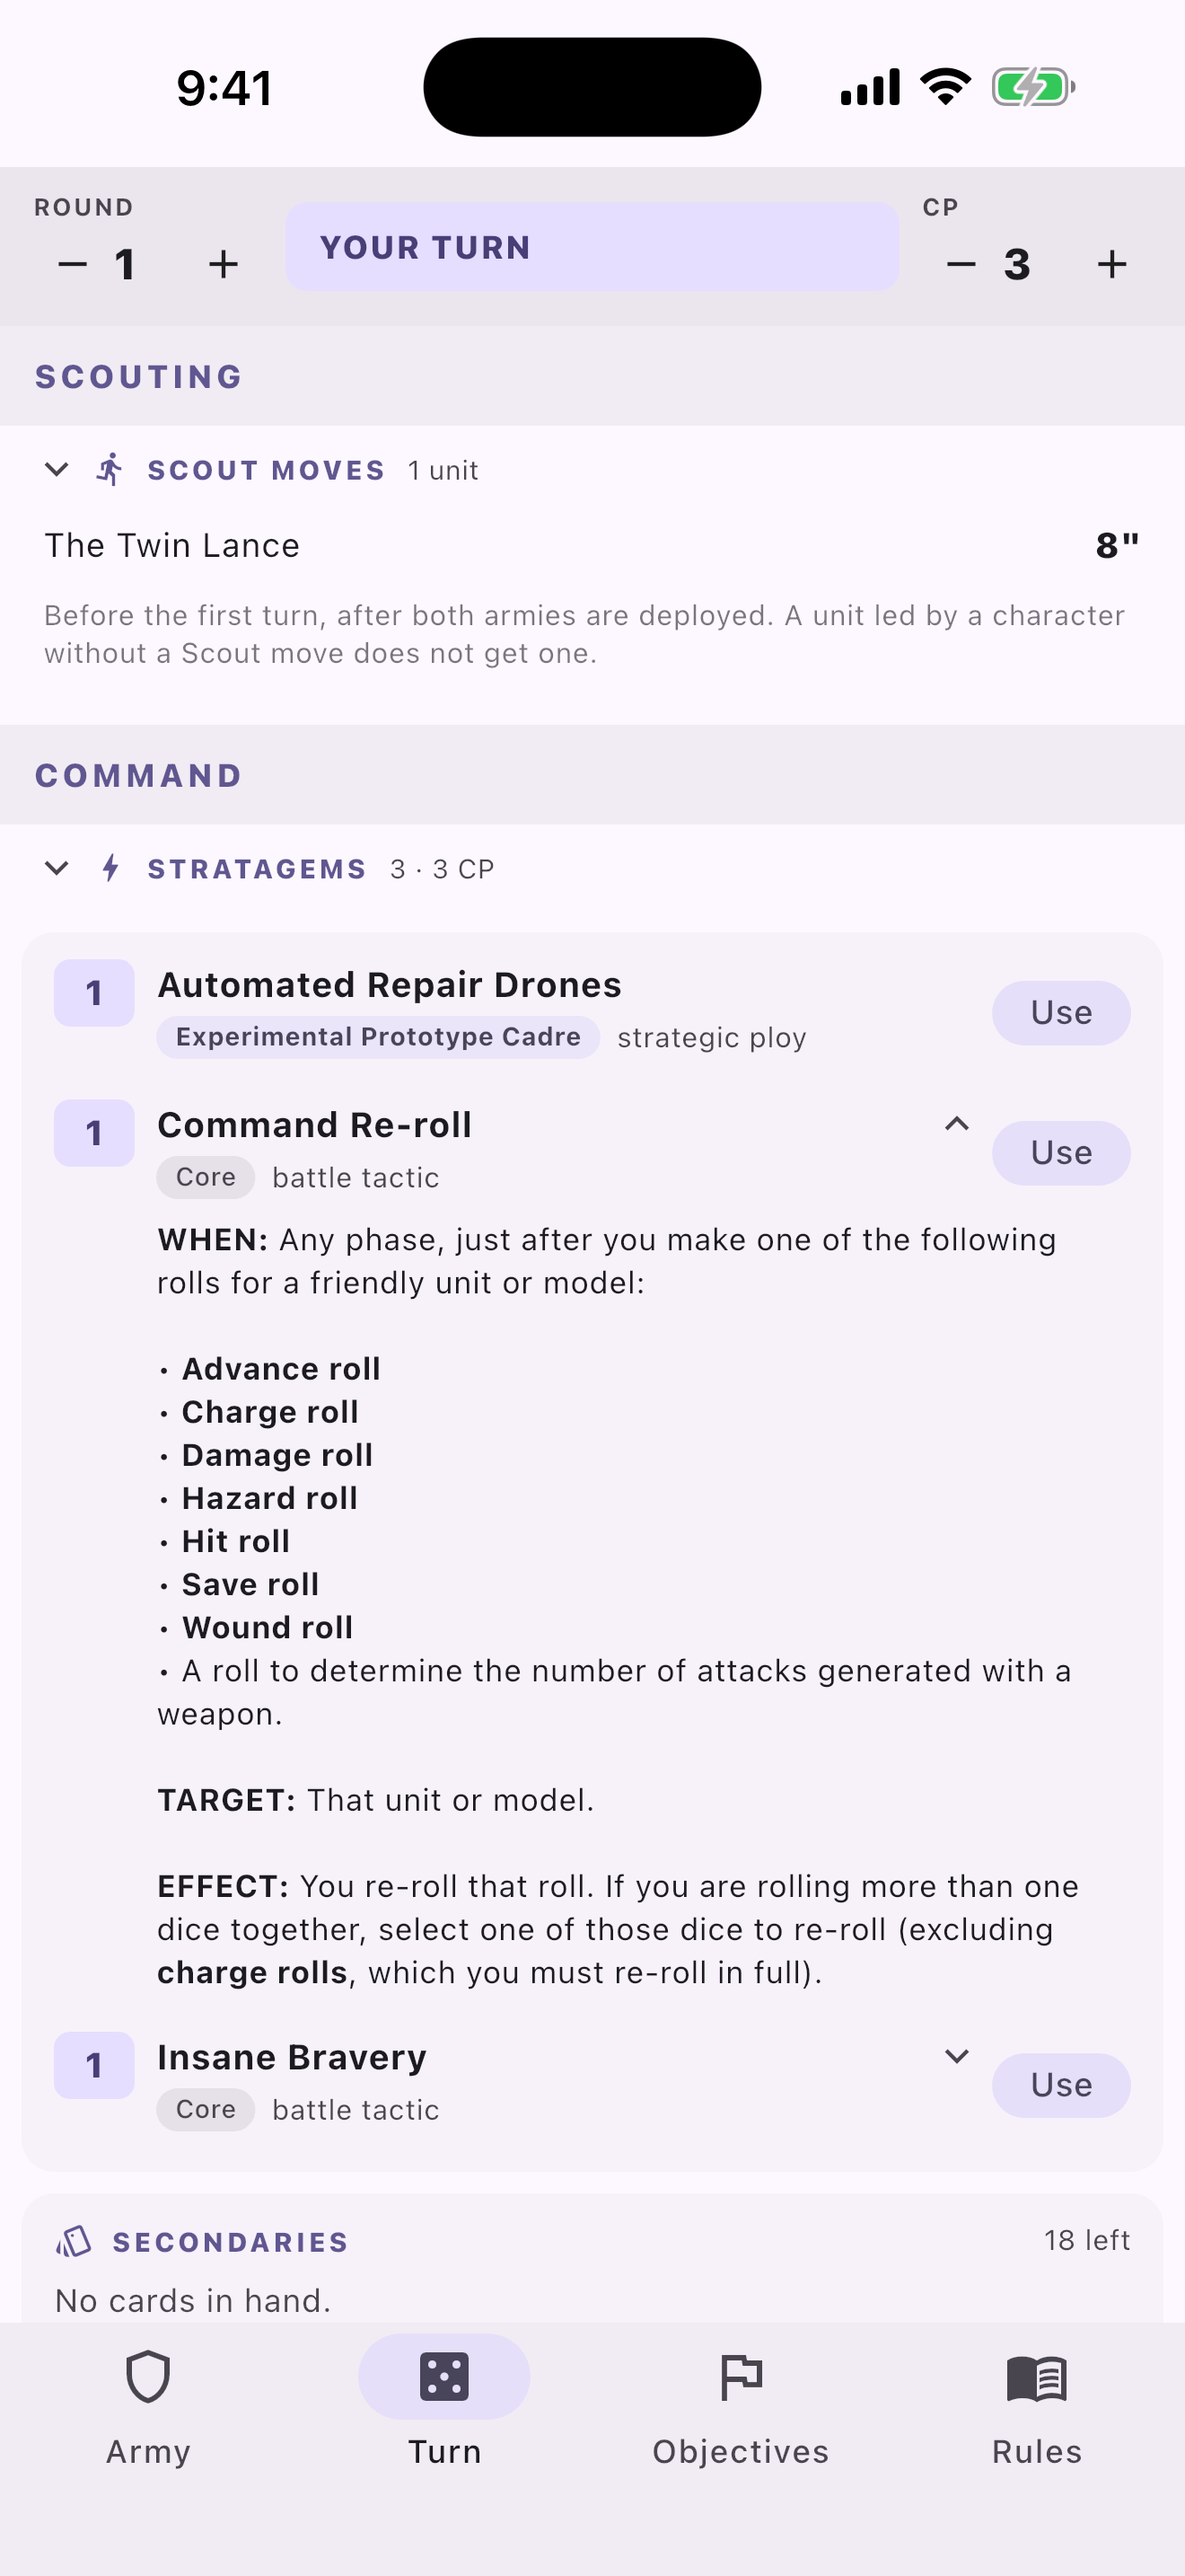
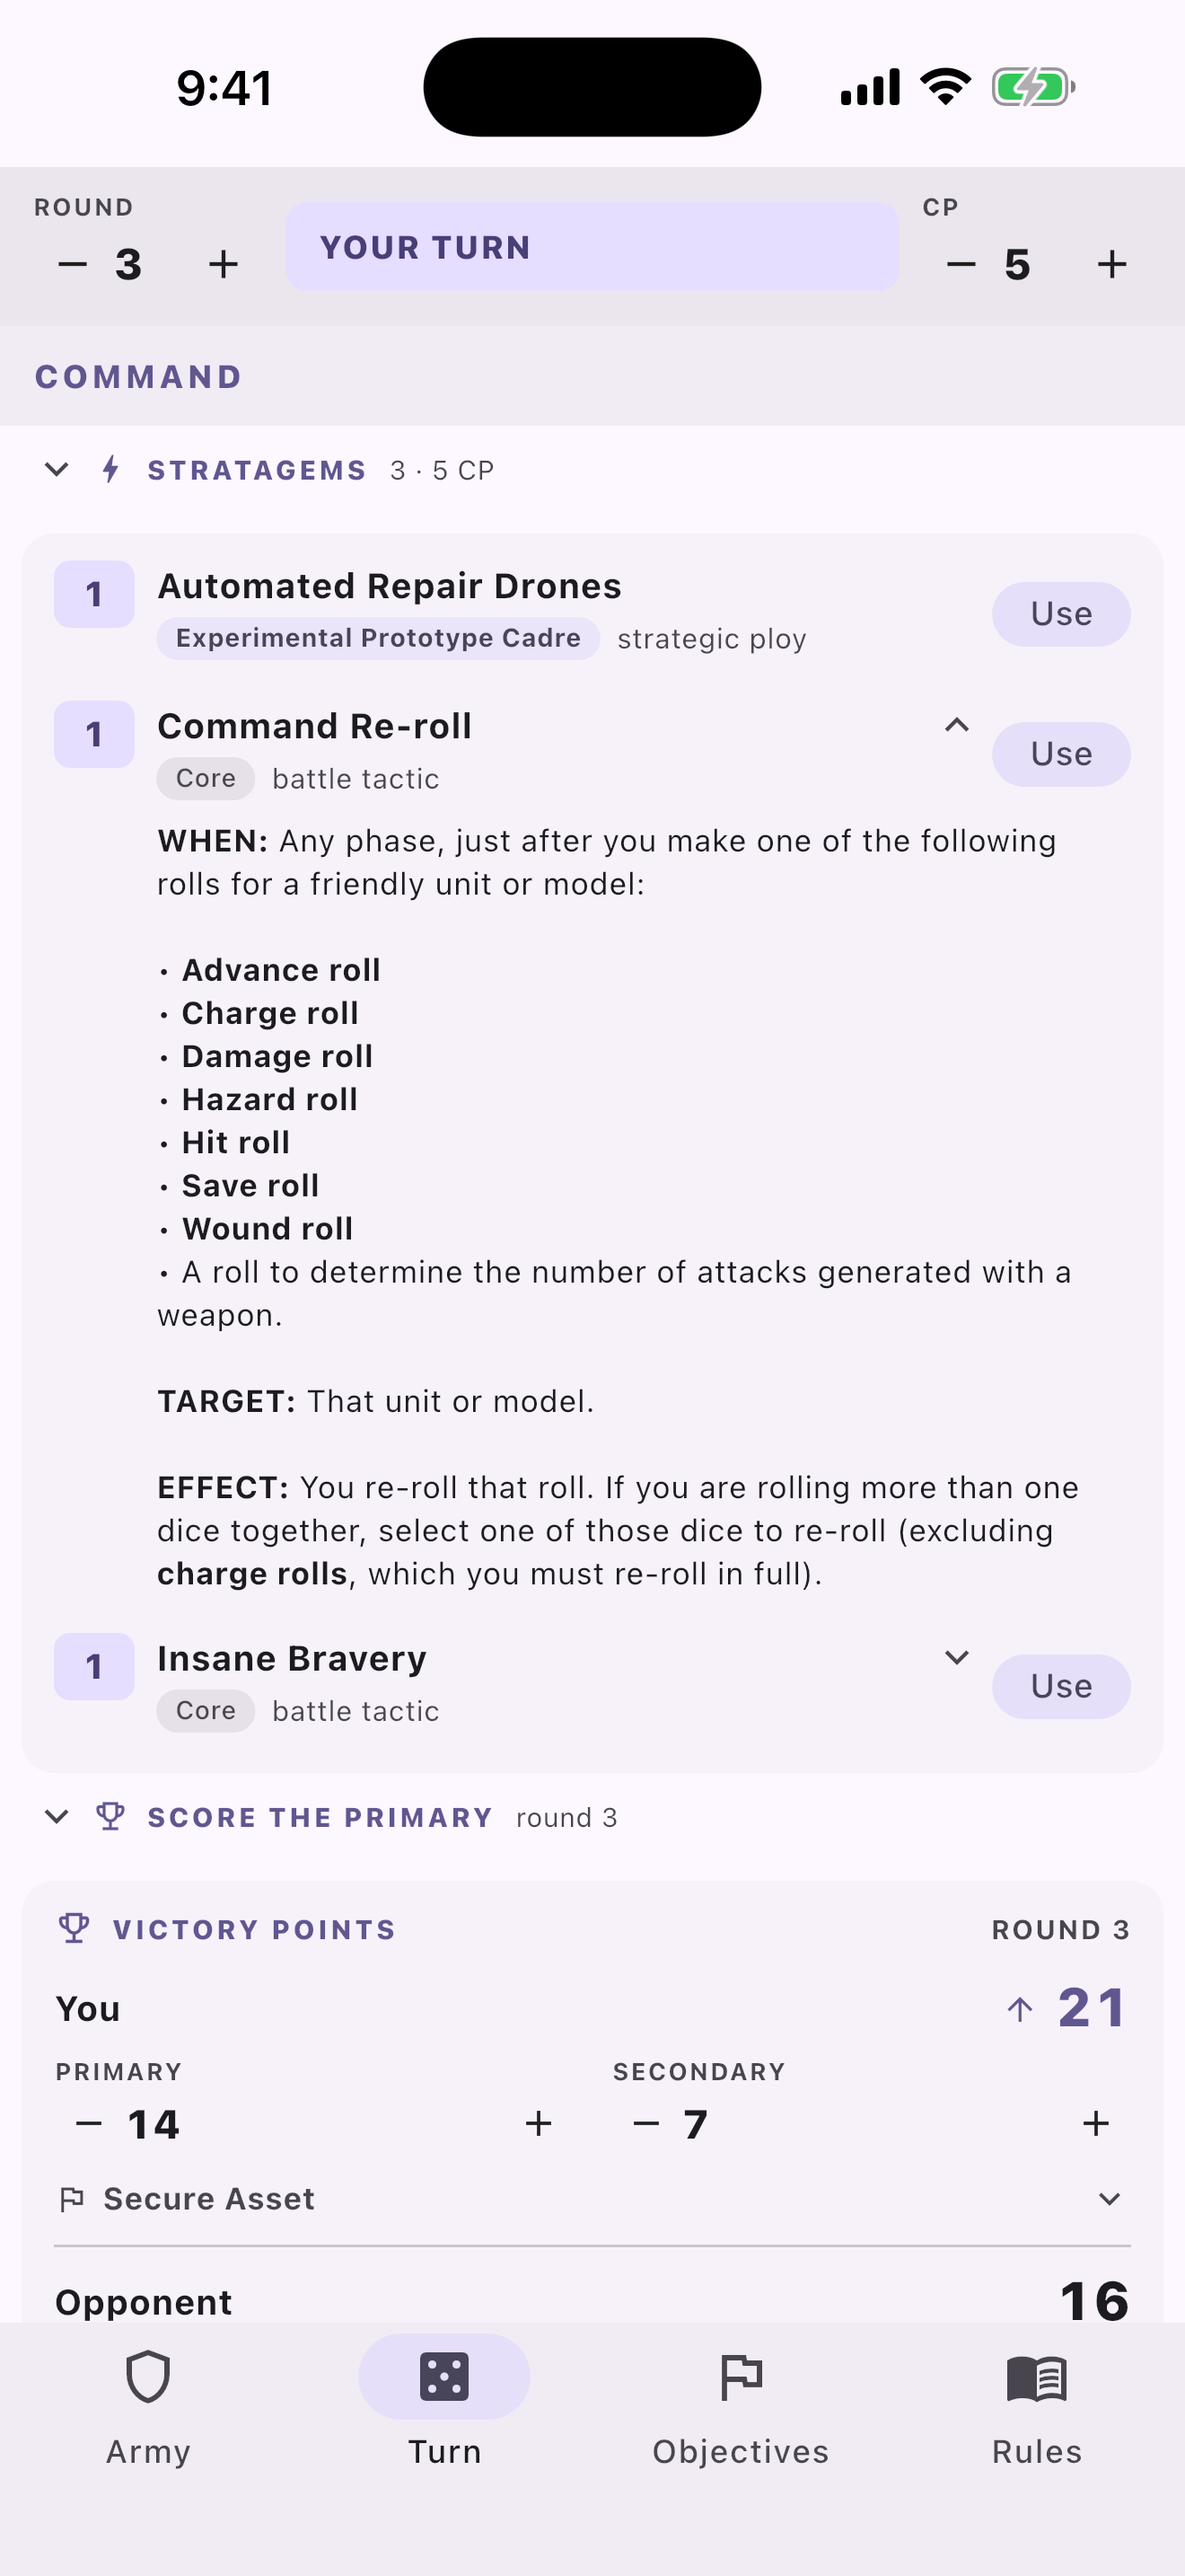
The iPad set, a scored battle, and a bug in the capture script
Eleven files now: seven at 1320x2868 and four at 2064x2752, both the
sizes App Store Connect requires while the app ships for iPhone and iPad.

05-turn and 06-objectives show a third-round game at 21-16 instead of the
0-0 they showed before. Tapping that in would have meant scrolling a very
long turn page to the scoring block for each of four values across two
rounds, so the scores went straight into rosters.battle_log_json as
`score` events in the app's own vocabulary. The app reads them exactly as
if they had been entered by hand, which is the point: the screenshot
shows real rendering of real state, not a mock.

The iPad set is army, turn, objectives and rules. The reference page is
the one that most rewards the width — the shared-rules matrix is nine
columns there against a scroll on the phone. Setup-wizard shots are
absent because a battle in progress has already passed that step.

capture.sh had a bug that this session's own files exposed: it wrote to
"<name>-6.9.png" and renamed afterwards by measured size, so shooting the
iPad set truncated three iPhone files before discovering they were a
different size. It now captures to a scratch name and moves into place
once the size is known, so a file can only ever replace one taken on the
same kind of device. The three lost files were re-shot.

diff --git a/store/screenshots/README.md b/store/screenshots/README.md
@@ -45,8 +45,8 @@ xcrun simctl status_bar <udid> override --time "9:41" --dataNetwork wifi \
   --batteryState charged --batteryLevel 100
 ```
 
-**The set, as shot.** Six, against a limit of ten, in the order that explains
-the app:
+**The set, as shot.** Seven for iPhone and four for iPad, against a limit of
+ten each, in the order that explains the app:
 
 | File | Screen | Why it is in the set |
 | --- | --- | --- |
@@ -54,8 +54,13 @@ the app:
 | `02-army` | the army page | 995 of 1000, six units, two detachments, the validation notes |
 | `03-mission` | setup, step 2 | the mission each detachment would give you, with its scoring and its action — the decision the app exists to inform |
 | `04-setup` | setup, the table | the deployment map drawn to scale, with its honest caption about bounding boxes |
-| `05-turn` | the turn page | round, CP, the stratagems usable now, one expanded to its full printed text |
-| `06-objectives` | objectives | both primaries, the score by round, and the disclaimer that these are community summaries |
+| `05-turn` | the turn page | round 3, five CP, the stratagems usable now, one expanded to its printed text, and the VP steppers |
+| `06-objectives` | objectives | 21–16 with the score by round, both primaries, and the disclaimer that these are community summaries |
+| `07-rules` | the reference page | search, the army-wide rules, and the shared-rules matrix — the screen that most rewards a tablet |
+
+The iPad set is `02`, `05`, `06` and `07`. `03` and `04` are not in it because
+they belong to the setup wizard, which a battle in progress has already passed;
+finishing the battle and setting up again would get them.
 
 No text overlays, no device frames, no marketing furniture — the same reason
 the rest of the copy is plain.
@@ -74,13 +79,19 @@ Navigate the simulator to the screen, run it, repeat. `DEVICE="iPad Pro
 13-inch (M5)"` switches devices for the iPad set. With no argument it prints
 the five shots and what each should show.
 
+## The scored battle
+
+`05-turn` and `06-objectives` show a game in its third round at 21–16, which no
+amount of tapping would have produced quickly. The scores were written straight
+into `rosters.battle_log_json` as `score` events in the app's own vocabulary —
+`{"type":"score","side":"me","kind":"primary","round":1,"vp":6}` — so the app
+reads them exactly as if they had been entered by hand. `battle_event.dart` is
+the schema.
+
 ## Status
 
-**All six captured**, every one at 1320 x 2868 with the 9:41 status bar and a
-real 995-point list.
+**All eleven files captured**, every one at its device's native size, from the
+imported 995-point list.
 
-Two things a second pass could improve, neither blocking: `06-objectives` shows
-0–0 because the battle had just started, and `01-armies` is thin enough that
-the set reads better without it. The iPad set is untouched — required only
-while the app ships for iPad, which `TARGETED_DEVICE_FAMILY = "1,2"` says it
-does.
+Remaining, neither blocking: `01-armies` is thin enough that the iPhone set
+reads better without it, and the iPad set has no setup-wizard shots.
